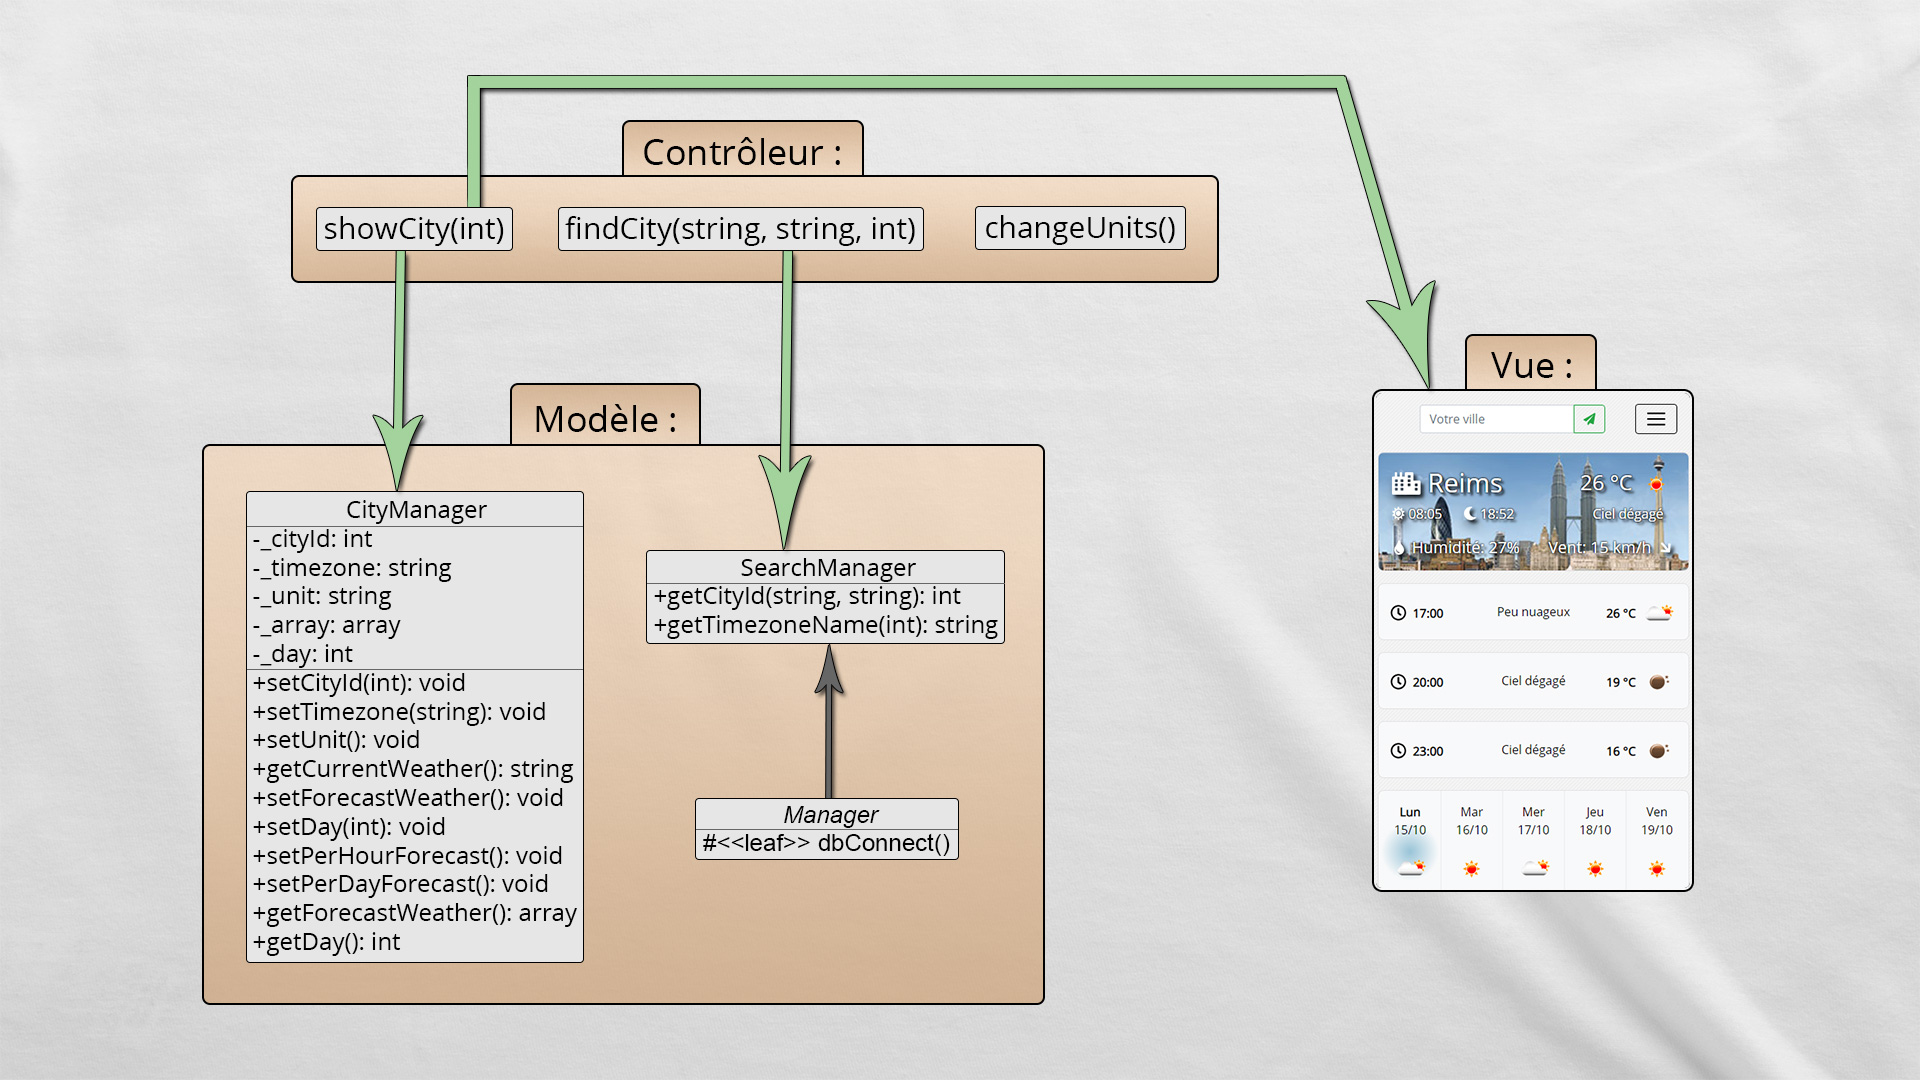
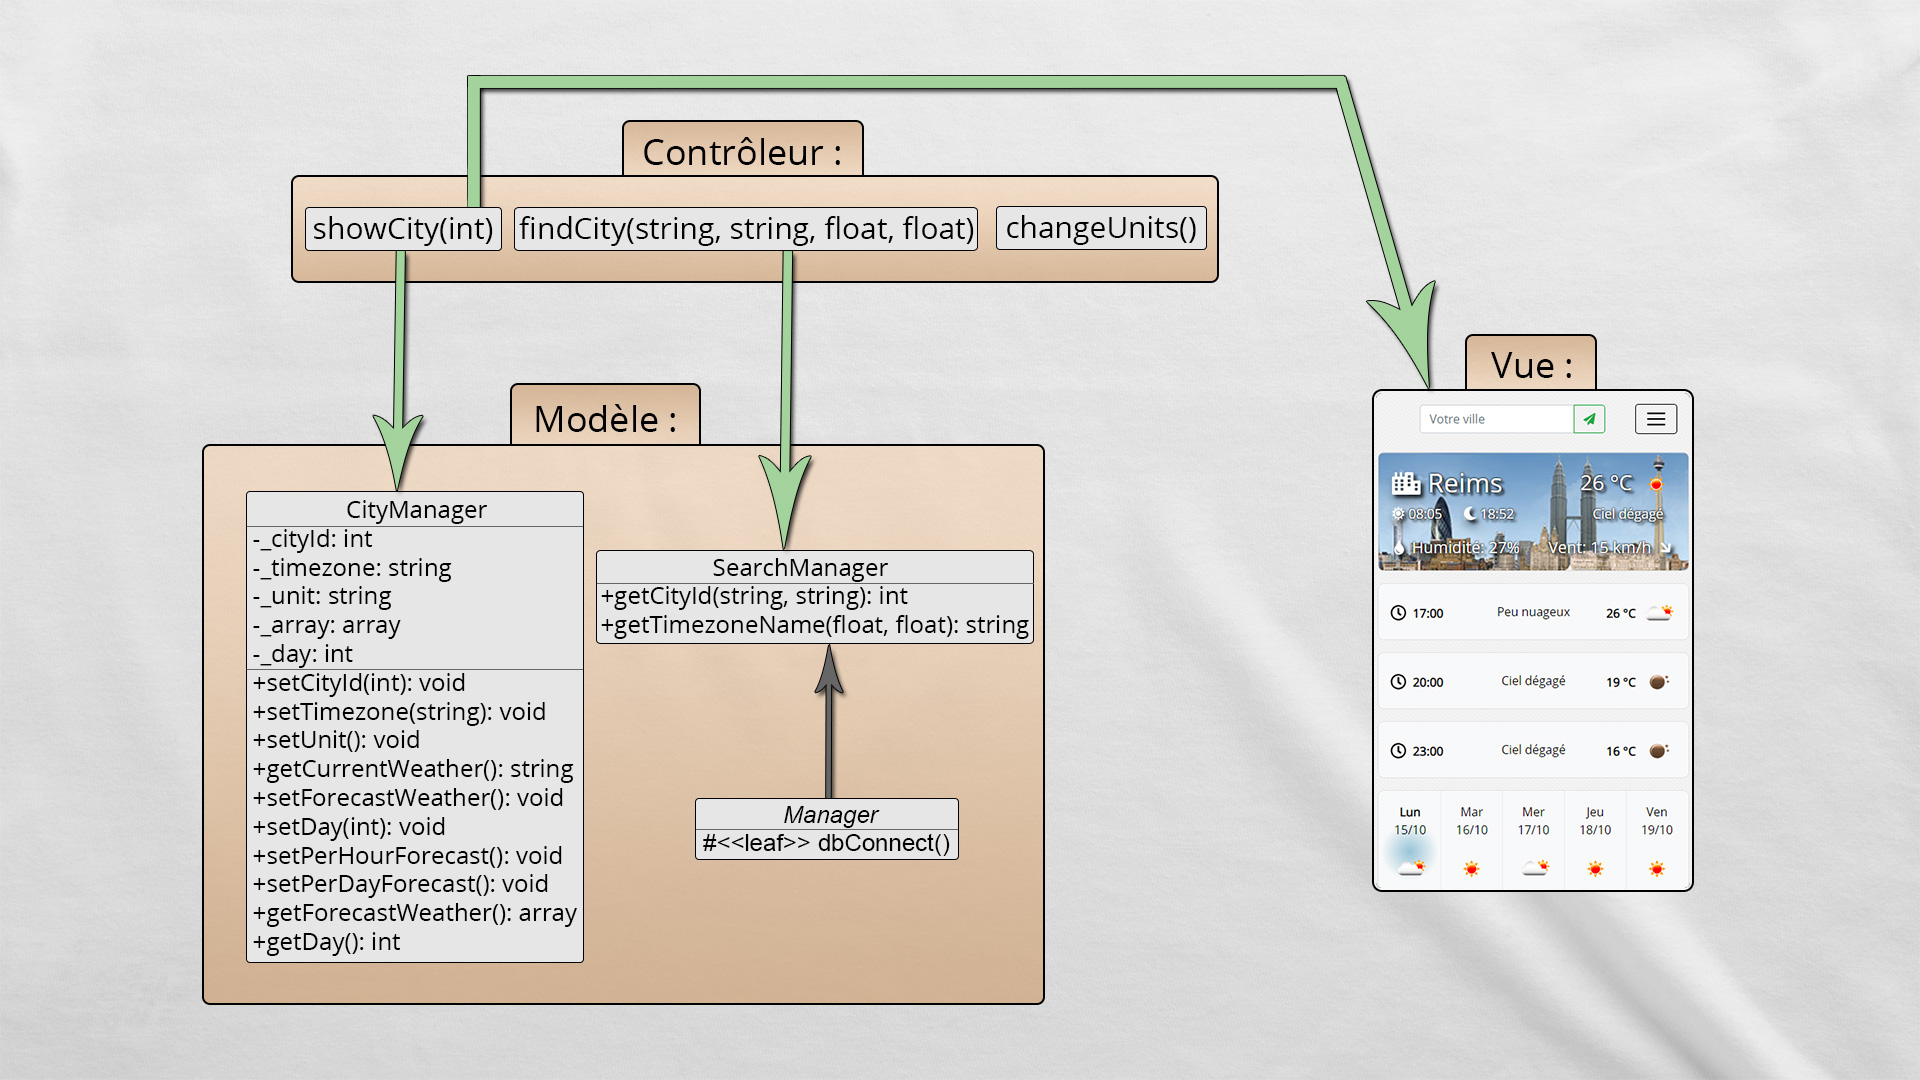
Fix daylight saving issue
Find city timezone with Google Timezone API instead of the UTC offset/php function

Changed region(s): [[0.1562, 0.1833, 0.625, 0.2444], [0.3125, 0.4889, 0.5625, 0.6111]]

diff --git a/public/js/autocomplete.js b/public/js/autocomplete.js
@@ -16,6 +16,8 @@ function citySearch() {
 function fillInAddress() {
 	// Get the place details from the autocomplete object.
 	var place = autocomplete.getPlace();
+	var lat = place.geometry.location.lat();
+	var lng = place.geometry.location.lng();
 
 	for (var component in componentForm) {
 		document.getElementById(component).value = '';
@@ -32,6 +34,7 @@ function fillInAddress() {
 		}
 	}
 
-	// Get the Utc Offset to define the timezone later
-	document.getElementById("utc_offset").value = place.utc_offset;
+	// Get Lati and Longi to determine the Timezone
+	document.getElementById("latitude").value = lat;
+	document.getElementById("longitude").value = lng;
 }

diff --git a/views/frontend/template.php b/views/frontend/template.php
@@ -36,7 +36,8 @@
 				</div>
 				<input id="locality" type="hidden" name="station">
 				<input id="country" type="hidden" name="country">
-				<input id="utc_offset" type="hidden" name="utc_offset">
+				<input id="latitude" type="hidden" name="latitude">
+				<input id="longitude" type="hidden" name="longitude">
 			</form>
 			<button class="navbar-toggler mb-2" type="button" data-toggle="collapse" data-target="#navbarNavAltMarkup" aria-controls="navbarNavAltMarkup" aria-expanded="false" aria-label="Toggle navigation">
 				<span class="navbar-toggler-icon"></span>
@@ -67,7 +68,7 @@
 	<script src="https://cdnjs.cloudflare.com/ajax/libs/popper.js/1.14.3/umd/popper.min.js" integrity="sha384-ZMP7rVo3mIykV+2+9J3UJ46jBk0WLaUAdn689aCwoqbBJiSnjAK/l8WvCWPIPm49" crossorigin="anonymous"></script>
 	<script src="https://stackpath.bootstrapcdn.com/bootstrap/4.1.3/js/bootstrap.min.js" integrity="sha384-ChfqqxuZUCnJSK3+MXmPNIyE6ZbWh2IMqE241rYiqJxyMiZ6OW/JmZQ5stwEULTy" crossorigin="anonymous"></script>
 	<script defer src="https://use.fontawesome.com/releases/v5.3.1/js/all.js" integrity="sha384-kW+oWsYx3YpxvjtZjFXqazFpA7UP/MbiY4jvs+RWZo2+N94PFZ36T6TFkc9O3qoB" crossorigin="anonymous"></script>
-	<script defer src="https://maps.googleapis.com/maps/api/js?key=AIzaSyDgj8WgLORXSYX0O5qmjniez9j8XsqCBtM&libraries=places&callback=citySearch"></script>
+	<script defer src="https://maps.googleapis.com/maps/api/js?key=<?= GOOGLE_APIKEY ?>&libraries=places&callback=citySearch"></script>
 	<script src="https://cdn.jsdelivr.net/npm/chart.js@2.7.2/dist/Chart.min.js" integrity="sha256-CfcERD4Ov4+lKbWbYqXD6aFM9M51gN4GUEtDhkWABMo=" crossorigin="anonymous"></script>
 	<script src="https://cdn.jsdelivr.net/npm/chartjs-plugin-datalabels@0.4.0/dist/chartjs-plugin-datalabels.min.js" integrity="sha256-SuPHzbJ4RjnP4lvabrH9n9nPJrUZlG4SbCvTGMtpEaU=" crossorigin="anonymous"></script>
 	<script src="./public/js/autocomplete.js"></script>

diff --git a/models/CityManager.php b/models/CityManager.php
@@ -27,7 +27,7 @@ class CityManager
 
 	public function getCurrentWeather()
 	{
-		$url = 'https://api.openweathermap.org/data/2.5/weather?lang=fr&id='.$this->_cityId.'&units='.$this->_unit.'&APPID='.APIKEY;
+		$url = 'https://api.openweathermap.org/data/2.5/weather?lang=fr&id='.$this->_cityId.'&units='.$this->_unit.'&APPID='.OPENWEATHERMAP_APIKEY;
 		$result = file_get_contents($url);
 
 		return json_decode($result);
@@ -35,7 +35,7 @@ class CityManager
 
 	public function setForecastWeather()
 	{
-		$url = 'https://api.openweathermap.org/data/2.5/forecast?lang=fr&id='.$this->_cityId.'&units='.$this->_unit.'&APPID='.APIKEY;
+		$url = 'https://api.openweathermap.org/data/2.5/forecast?lang=fr&id='.$this->_cityId.'&units='.$this->_unit.'&APPID='.OPENWEATHERMAP_APIKEY;
 		$result = file_get_contents($url);
 
 		$this->_array = json_decode($result, true);

diff --git a/models/SearchManager.php b/models/SearchManager.php
@@ -32,11 +32,14 @@ class SearchManager extends Manager
 	 *
 	 * @return string
 	 */
-	public function getTimezoneName($utcOffset)
+	public function getTimezoneName($lati, $longi)
 	{
-		$utcOffset = $utcOffset * 60;
-		$tz = timezone_name_from_abbr('', $utcOffset, date('I'));
-		
-		return $tz;
+		date_default_timezone_set("UTC");
+		$unixTimestamp = time();
+		$url = 'https://maps.googleapis.com/maps/api/timezone/json?location='.$lati.','.$longi.'&timestamp='.$unixTimestamp.'&key='.GOOGLE_APIKEY;
+		$result = file_get_contents($url);
+		$json_tz = json_decode($result);
+
+		return $json_tz->timeZoneId;
 	}
 }

diff --git a/index.php b/index.php
@@ -11,8 +11,8 @@ try {
 		}
 	} elseif (isset($_GET['action'])) {
 		if ($_GET['action'] == 'find') {
-			if (!empty($_POST['station']) && !empty($_POST['country']) && !empty($_POST['utc_offset'])) {
-				findCity($_POST['station'], $_POST['country'], $_POST['utc_offset']);
+			if (!empty($_POST['station']) && !empty($_POST['country']) && !empty($_POST['latitude']) && !empty($_POST['longitude'])) {
+				findCity($_POST['station'], $_POST['country'], $_POST['latitude'], $_POST['longitude']);
 			} else {
 				throw new Exception('Veuillez choisir le nom d\'une ville valide');
 			}

diff --git a/controllers/frontend.php b/controllers/frontend.php
@@ -45,12 +45,12 @@ function showCity($day = null)
  *
  * @return void
  */
-function findCity($station, $country, $utcOffset)
+function findCity($station, $country, $lati, $longi)
 {
 	$searchManager = new \OpenClassrooms\Projet5\Weather\SearchManager();
 
 	$cityId = $searchManager->getCityId($station, $country);
-	$timezoneName = $searchManager->getTimezoneName($utcOffset);
+	$timezoneName = $searchManager->getTimezoneName($lati, $longi);
 
 	if ($cityId == false) {
 		throw new Exception('Aucune station disponible dans cette ville');

diff --git a/config.php b/config.php
@@ -2,4 +2,5 @@
 
 define("TITLE", "Météo en ligne");
 define("DESCRIPTION", "Votre site favori pour consulter la météo de votre ville en ligne et sans aucune pub !");
-define("APIKEY", "47cf9f19104087247e6c6a40cc09197d");
+define("OPENWEATHERMAP_APIKEY", "");
+define("GOOGLE_APIKEY", "");
